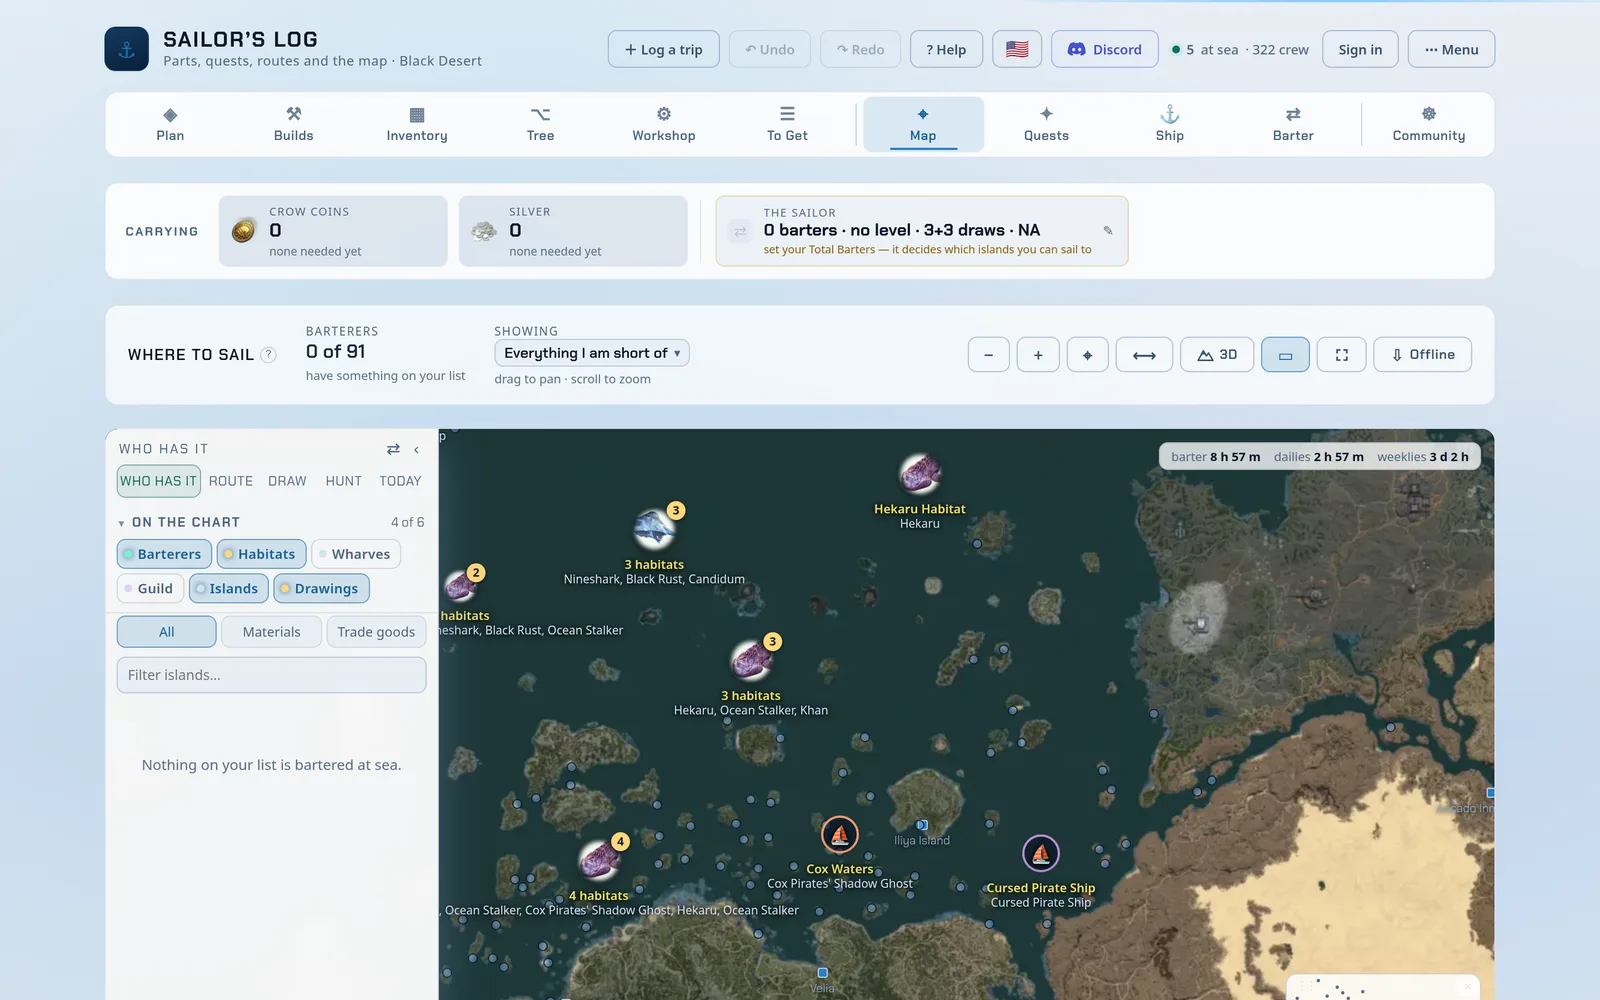
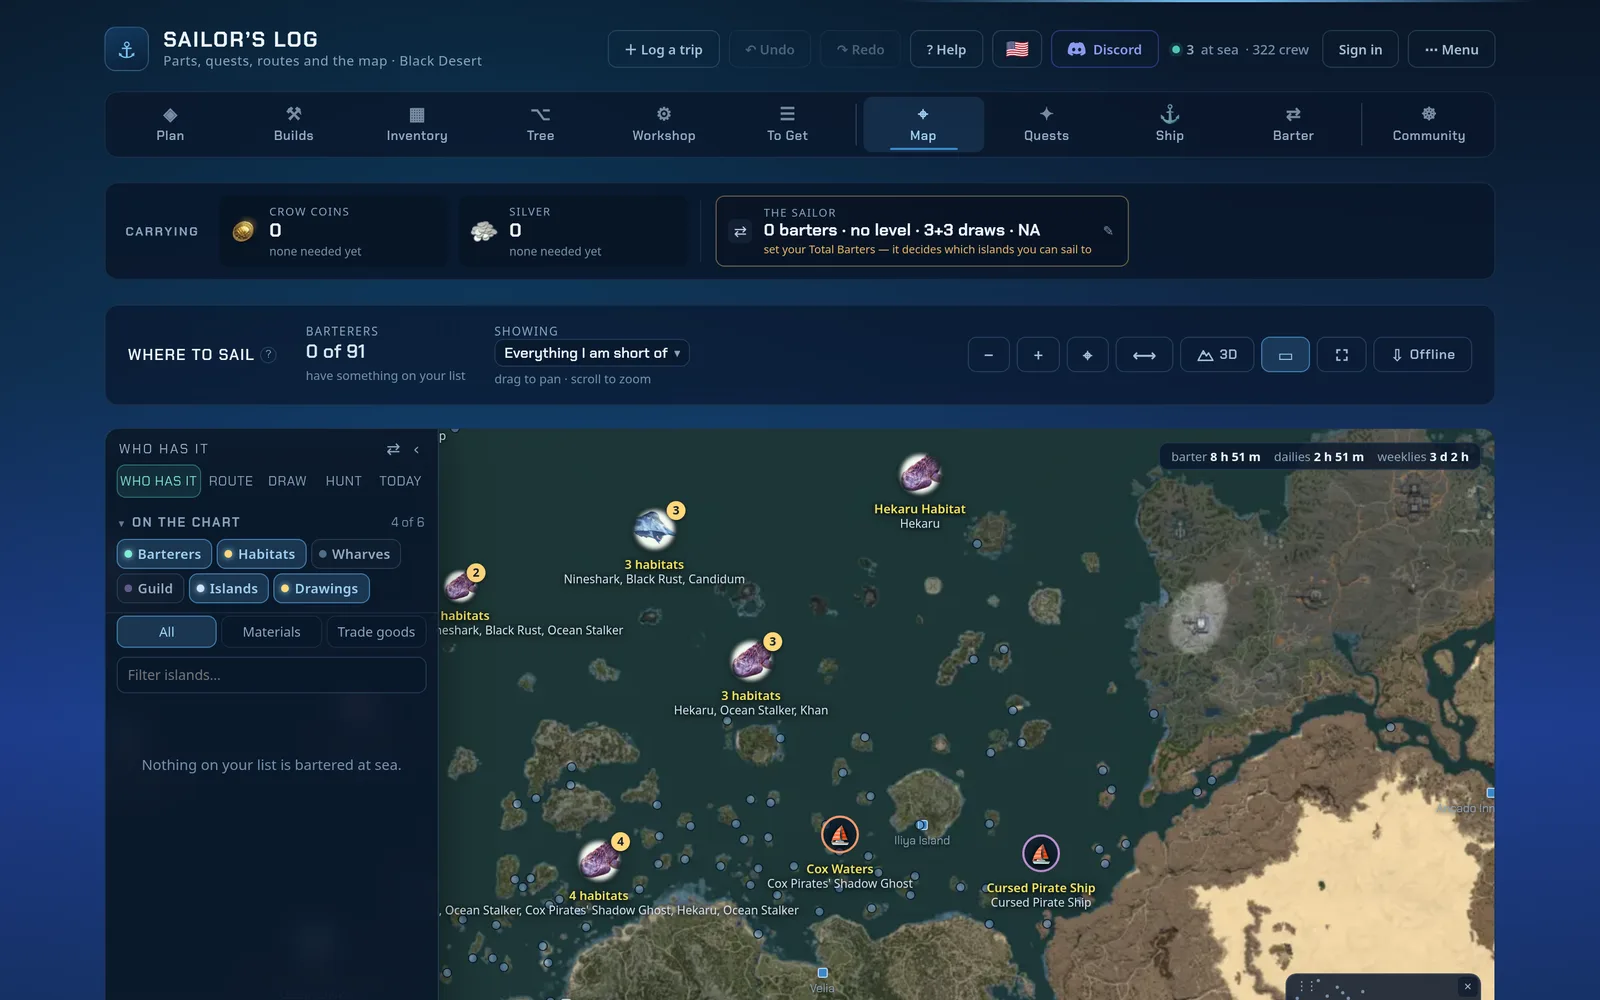
sail's capture is its own dark scheme on the map view, tinted without inversion; the inversion stays for light captures only

diff --git a/site/style.css b/site/style.css
@@ -67,10 +67,11 @@ a:hover { color: var(--color-accent); }
 .videos .title { width: 50%; }
 .videos .num { width: 25%; text-align: left; color: var(--color-muted); }
 
-/* projects: two splits, then a tool as a row. A capture of a light interface is inverted first, so it reads as a phosphor screen, then tinted */
+/* projects: two splits, then a tool as a row. A capture of a light interface is inverted first, so it reads as a phosphor screen, then tinted; a capture already dark (data-tone) is only tinted */
 [data-kind="product"]:has(> img) { background: var(--color-paper-2); }
 [data-kind="product"] > img { filter: grayscale(1) invert(1) contrast(1.1); mix-blend-mode: normal; }
 [data-kind="product"]:has(> img)::before { background: var(--glyph-5); mix-blend-mode: multiply; }
+[data-kind="product"][data-tone="dark"] > img { filter: grayscale(1) contrast(1.1) brightness(1.15); }
 /* projects: two splits, then a tool as a row */
 .projects { padding-block: var(--section-gap-l) 0; }
 .projects h2 { margin-bottom: var(--space-2xl); }

diff --git a/site/index.html b/site/index.html
@@ -78,7 +78,7 @@
           <h3><a href="https://sail.walior.it/" target="_blank" rel="noopener">sail.walior.it</a></h3>
           <p>Ship parts, quests, barter routes and the map, for Black Desert sailors.</p>
         </div>
-        <a class="shot" href="https://sail.walior.it/" target="_blank" rel="noopener" tabindex="-1" aria-hidden="true" data-slot="sail" data-kind="product" data-alt="Sailor's Log, the map of where to sail"><img src="images/sail.webp" width="1600" height="1000" alt="" loading="lazy"></a>
+        <a class="shot" href="https://sail.walior.it/" target="_blank" rel="noopener" tabindex="-1" aria-hidden="true" data-slot="sail" data-kind="product" data-tone="dark" data-alt="Sailor's Log, the map of where to sail"><img src="images/sail.webp" width="1600" height="1000" alt="" loading="lazy"></a>
       </article>
       <article class="split split--flip">
         <div class="split__text">
